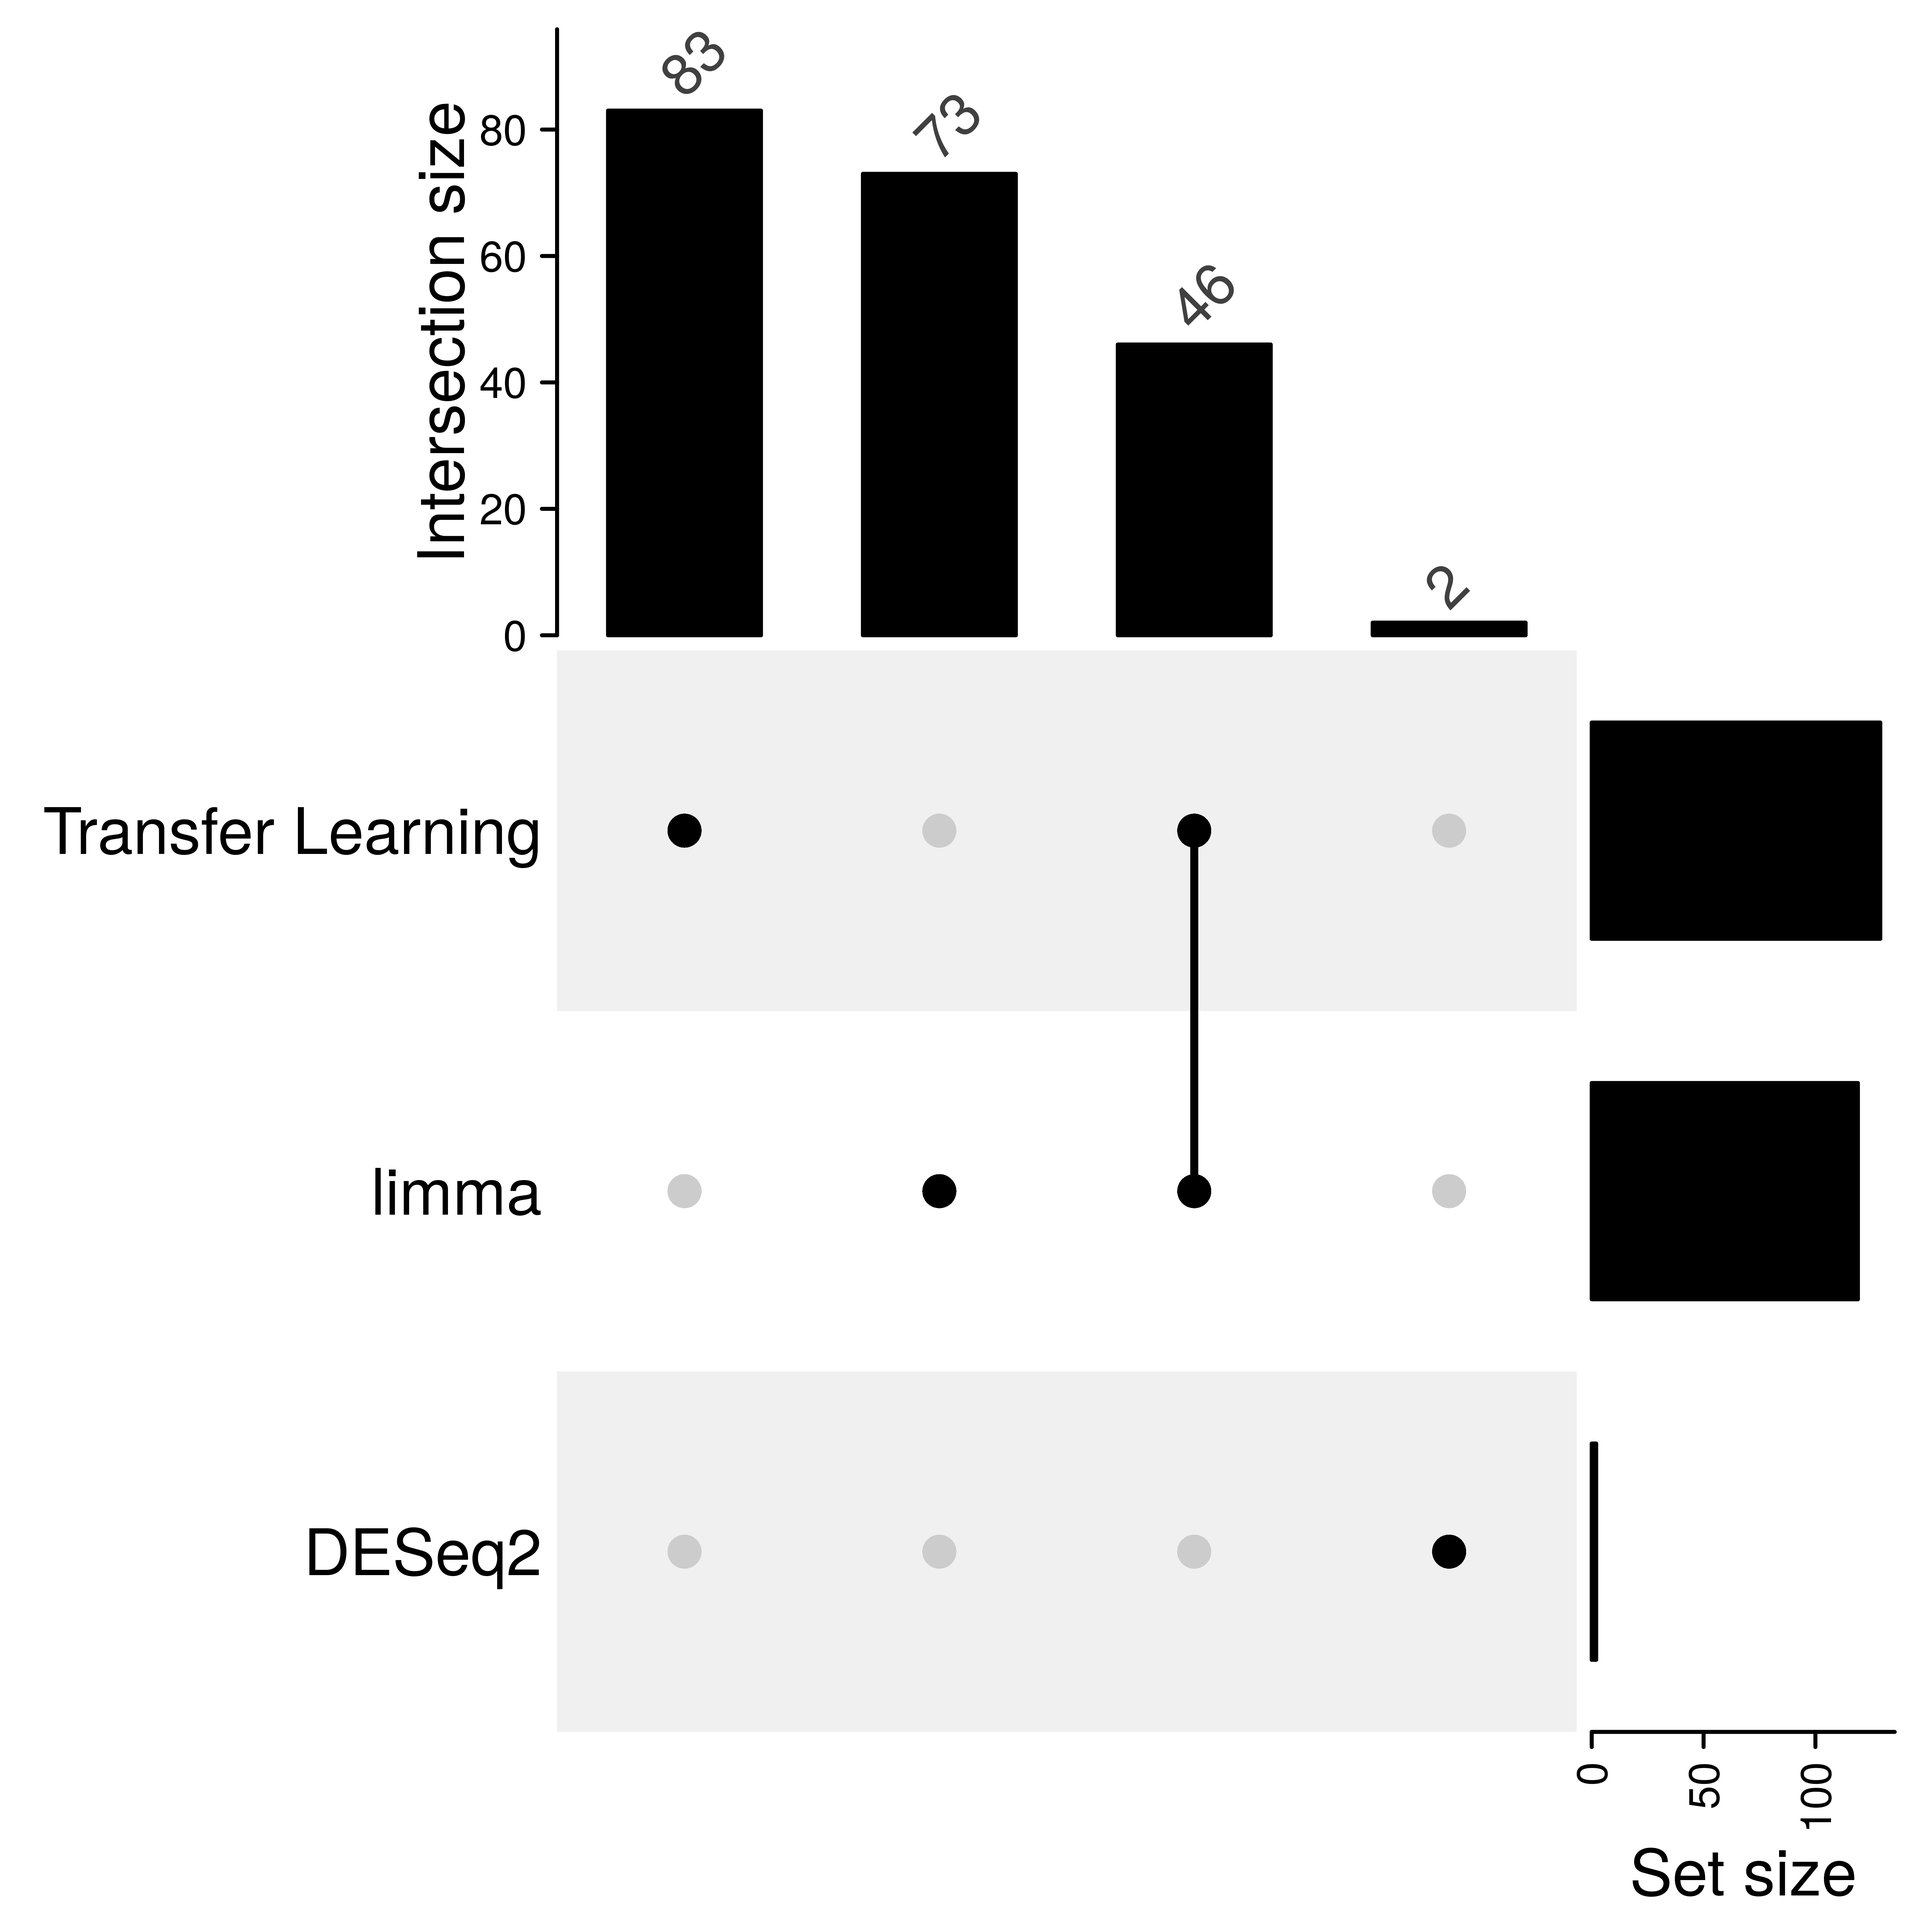
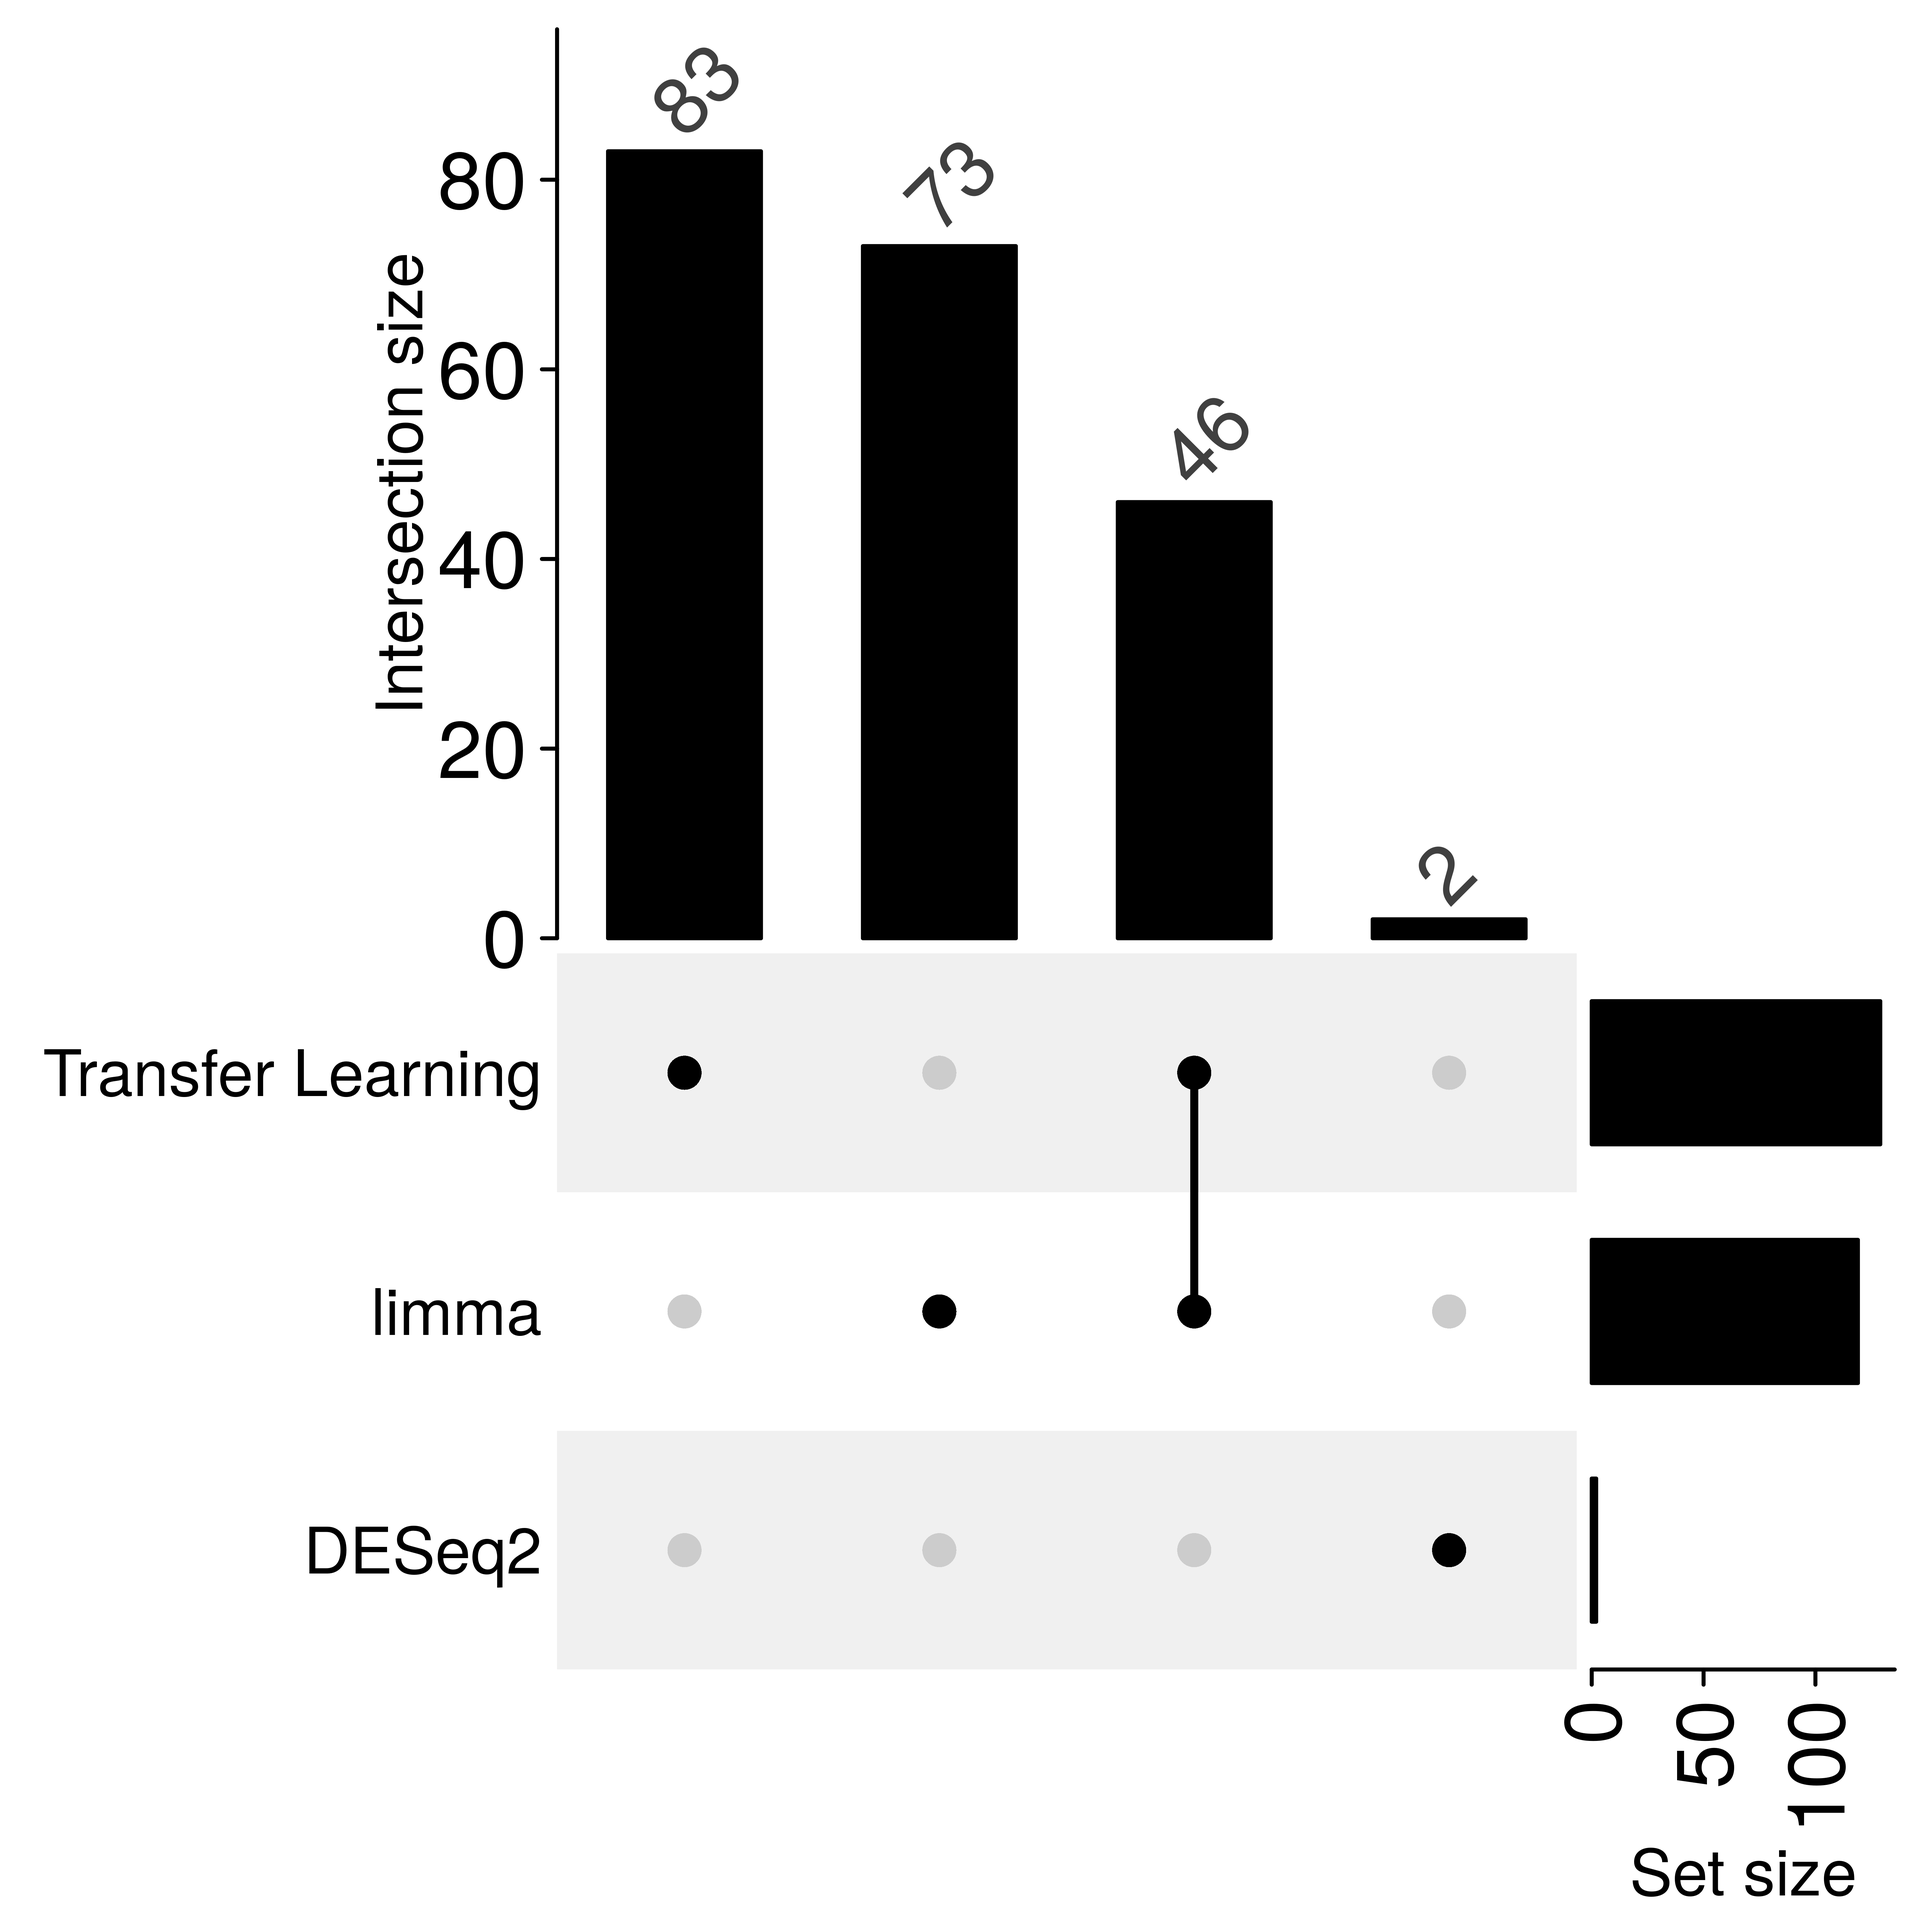
upset_front_update

diff --git a/script/230628_upset_plots.html b/script/230628_upset_plots.html
@@ -421,7 +421,7 @@ na</code></pre>
 ## ✖ dplyr::lag()    masks stats::lag()</code></pre>
 <pre class="r"><code>#function for upset plots
 
-make_upset_plot&lt;- function(Transfer_Learning_List, limma_list, deseq2_list, file_name){
+make_upset_plot&lt;- function(Transfer_Learning_List, limma_list, deseq2_list, file_name) {
   comb_mat&lt;- make_comb_mat(list(&quot;Transfer Learning&quot; = Transfer_Learning_List, &quot;limma&quot; = limma_list, 
                                 &quot;DESeq2&quot; = deseq2_list), mode = &quot;distinct&quot;)
   
@@ -431,16 +431,22 @@ make_upset_plot&lt;- function(Transfer_Learning_List, limma_list, deseq2_list, f
                top_annotation = HeatmapAnnotation(&quot;Intersection size&quot; = anno_barplot(cs, 
                                        ylim = c(0, max(cs)*1.1),
                                        border = FALSE, 
-                                       gp = gpar(fill = &quot;black&quot;, fontsize = 11, face=&quot;bold&quot;), 
-                                       height = unit(4, &quot;cm&quot;)), 
-    annotation_name_side = &quot;left&quot;, 
-    annotation_name_rot = 90))
+                                       axis_param = list(gp = gpar(fontsize = 15)),
+                                       gp = gpar(fill = &quot;black&quot;, fontsize = 15, face=&quot;bold&quot;), 
+                                       height = unit(6, &quot;cm&quot;)), 
+                                       annotation_name_side = &quot;left&quot;, 
+                                       annotation_name_rot = 90),
+              right_annotation = upset_right_annotation(comb_mat,
+                                                        axis_param = list(gp = gpar(fontsize = 15))))
+  
   plot_draw &lt;- draw(plot)
+  
   od &lt;- column_order(plot_draw)
+  
   decorate_annotation(&quot;Intersection size&quot;, {
     grid.text(cs[od], x = seq_along(cs), y = unit(cs[od], &quot;native&quot;) + unit(2, &quot;pt&quot;), 
               default.units = &quot;native&quot;, just = c(&quot;left&quot;, &quot;bottom&quot;), 
-              gp = gpar(fontsize = 11, face=&quot;bold&quot;,col = &quot;#404040&quot;), rot = 45)})
+              gp = gpar(fontsize = 15, face=&quot;bold&quot;,col = &quot;#404040&quot;), rot = 45)})
   dev.off()
 }</code></pre>
 <p>#upset plots of diseases signatures</p>
